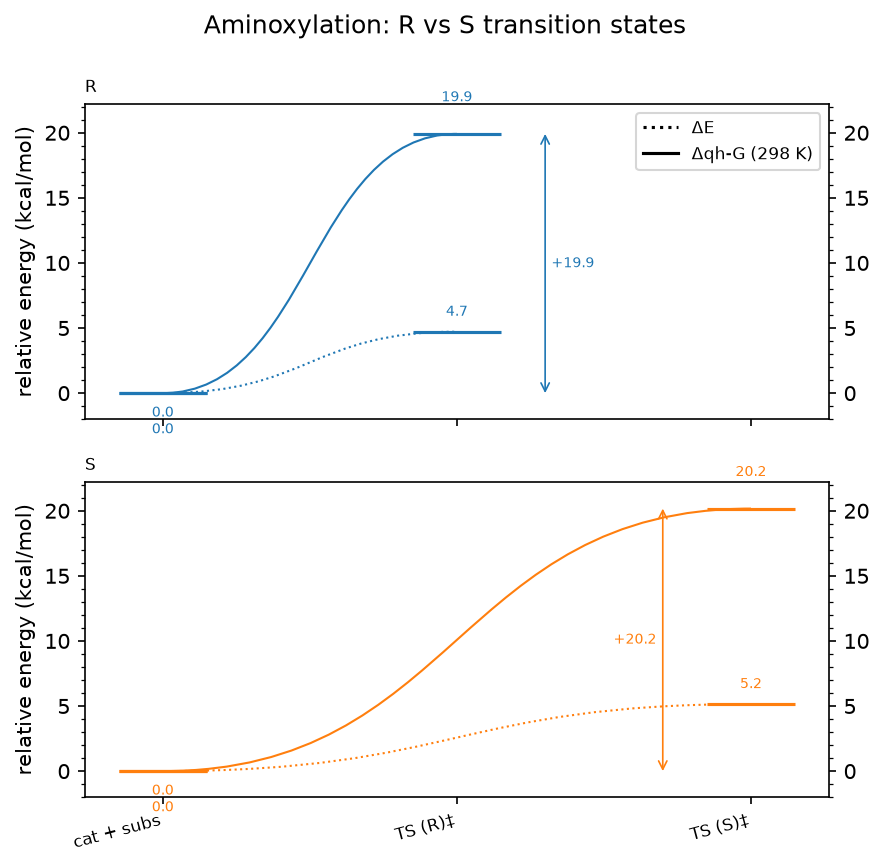
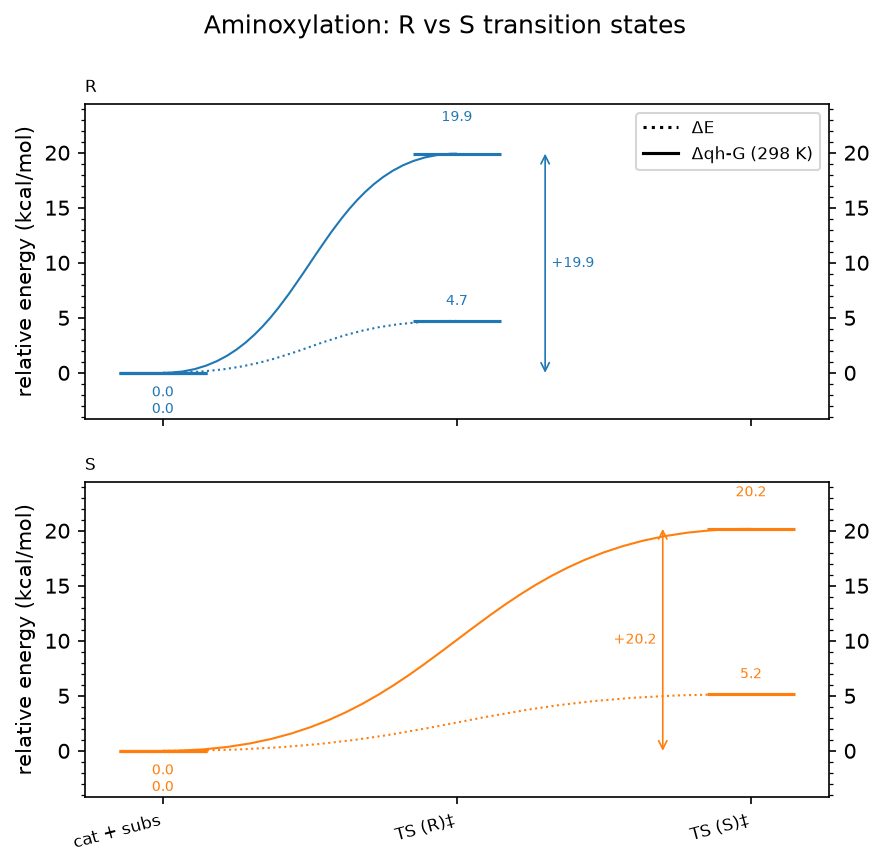
Image baselines for the gallery; a preset and uncertainty figure
tests/test_gallery_images.py renders every gallery figure at a fixed
size with its text hidden and compares it with a committed PNG in
tests/baselines/gallery (RMS tolerance 1.5). Text is left out because
glyph rasterisation varies between matplotlib/FreeType releases; the
geometry does not (matplotlib 3.9, 3.10 and 3.11 render the baselines
identically). Regenerate with GOODVIBES_UPDATE_BASELINES=1.

The gallery gains column_preset_uncertainty: minimal.yaml with
illustrative uncertainties at the single-column preset.

Tick labels now tilt from 15 to 40 degrees only when slanted neighbours
would actually overlap (baseline gap d*sin(a) below the text height),
not when their bounding boxes do. The committed gallery images are
redrawn (the value-label margin changed slightly).

diff --git a/tests/test_gallery_images.py b/tests/test_gallery_images.py
@@ -1,0 +1,109 @@
+"""Image baselines for the reaction-profile gallery: a layout or drawing
+regression (a lost series, a moved bar, a wrong connector, a figure that
+changes size) fails here, not in review.
+
+Each gallery figure is rendered at a fixed size with its text hidden and
+compared with a committed PNG in ``tests/baselines/gallery`` (RMS
+tolerance ``TOLERANCE`` on a 0-255 scale). Text is left out because glyph
+rasterisation changes between matplotlib and FreeType releases while the
+geometry does not; the numbers the text shows are checked in
+``test_gallery.py``. Measured when the baselines were made: matplotlib
+3.9, 3.10 and 3.11 render them identically (RMS 0, at most 0.67 for the
+panels figure); five missing connectors give 3.6, missing error bars
+4.1, a lost series 13.
+
+Regenerate after an intended change, and look at the images first:
+
+    GOODVIBES_UPDATE_BASELINES=1 pytest tests/test_gallery_images.py
+"""
+import importlib.util
+import os
+import shutil
+from pathlib import Path
+
+import pytest
+
+pytest.importorskip("yaml")
+matplotlib = pytest.importorskip("matplotlib")
+matplotlib.use("Agg", force=True)
+import matplotlib.pyplot as plt  # noqa: E402
+from matplotlib.testing.compare import compare_images  # noqa: E402
+
+ROOT = Path(__file__).resolve().parents[1]
+SCRIPT = ROOT / "goodvibes" / "examples" / "gallery" / "build_gallery.py"
+BASELINES = ROOT / "tests" / "baselines" / "gallery"
+DPI = 50
+TOLERANCE = 1.5
+UPDATE = bool(os.environ.get("GOODVIBES_UPDATE_BASELINES"))
+
+
+def _gallery():
+    spec = importlib.util.spec_from_file_location("build_gallery", SCRIPT)
+    mod = importlib.util.module_from_spec(spec)
+    spec.loader.exec_module(mod)
+    return mod.GALLERY
+
+
+GALLERY = _gallery()
+
+
+def render_geometry(prof, path) -> None:
+    """Save ``prof`` without text: titles, axis and tick labels, value
+    labels and the legend are hidden; bars, connectors, markers, error
+    bars, conformer dots, barrier arrows and the axes frame stay. No
+    ``bbox_inches='tight'``, so the image size is the figure size."""
+    fig = prof.figure
+    for ax in prof.axes:
+        ax.tick_params(which="both", labelleft=False, labelright=False, labelbottom=False)
+        ax.title.set_visible(False)
+        ax.xaxis.label.set_visible(False)
+        ax.yaxis.label.set_visible(False)
+        for t in ax.texts:
+            if t.get_text():                     # value / barrier labels; keep the bare arrows
+                t.set_visible(False)
+        if ax.get_legend() is not None:
+            ax.get_legend().set_visible(False)
+    for t in fig.texts:
+        t.set_visible(False)
+    with plt.rc_context(prof.rc):
+        fig.savefig(path, dpi=DPI)
+
+
+@pytest.mark.parametrize("name, make", GALLERY, ids=[name for name, _ in GALLERY])
+def test_gallery_figure_matches_its_baseline(name, make, tmp_path):
+    prof = make()
+    actual = tmp_path / f"{name}.png"
+    render_geometry(prof, actual)
+    prof.close()
+    expected = BASELINES / f"{name}.png"
+    if UPDATE:
+        BASELINES.mkdir(parents=True, exist_ok=True)
+        shutil.copyfile(actual, expected)
+        pytest.skip(f"baseline written: {expected.relative_to(ROOT)}")
+    assert expected.is_file(), (f"no baseline for {name}; create it with "
+                                "GOODVIBES_UPDATE_BASELINES=1 pytest tests/test_gallery_images.py")
+    diff = compare_images(str(expected), str(actual), tol=TOLERANCE, in_decorator=True)
+    assert diff is None, (f"{name} differs from its baseline (RMS {diff['rms']:.2f} > {TOLERANCE}); "
+                          f"diff image: {diff['diff']}")
+
+
+def test_every_baseline_belongs_to_a_gallery_figure():
+    names = {name for name, _ in GALLERY}
+    stale = sorted(p.stem for p in BASELINES.glob("*.png") if p.stem not in names)
+    assert not stale, f"baselines without a gallery figure: {stale}"
+
+
+def test_a_changed_figure_fails(tmp_path):
+    """The comparison is sensitive enough to catch a lost series."""
+    name, make = next((n, m) for n, m in GALLERY if n == "column_preset_uncertainty")
+    prof = make()
+    for coll in prof.ax.collections:
+        if (coll.get_gid() or "").startswith("error"):
+            coll.set_visible(False)              # the error bars gone
+    actual = tmp_path / "changed.png"
+    render_geometry(prof, actual)
+    prof.close()
+    expected = BASELINES / f"{name}.png"
+    if not expected.is_file():
+        pytest.skip("no baseline yet")
+    assert compare_images(str(expected), str(actual), tol=TOLERANCE, in_decorator=True) is not None

diff --git a/goodvibes/plot.py b/goodvibes/plot.py
@@ -463,14 +463,36 @@ def _draw_connector(ax, x0, y0, x1, y1, *, style, color, linestyle, linewidth, z
                    linestyle=linestyle, zorder=zorder)[0]
 
 
-def _labels_collide(fig, texts) -> bool:
-    """Whether consecutive tick labels overlap (measured with the Agg renderer)."""
+def _tick_label_rotation(fig, axis, texts, angle: float = 15.0) -> float:
+    """The smallest of 15, 40 and 90 degrees at which slanted, right-aligned
+    tick labels one data unit apart do not overlap.
+
+    Parallel labels at angle a, d apart, run into each other when one is
+    long enough to reach its neighbour (width * cos a > d) and the gap
+    between their baselines (d * sin a) is less than the text height.
+    """
+    import math
     try:
         renderer = fig.canvas.get_renderer()
-        boxes = [t.get_window_extent(renderer) for t in texts if t.get_text()]
     except Exception:                                   # a canvas without a renderer
-        return False
-    return any(b.x1 > c.x0 + 1 for b, c in zip(boxes, boxes[1:]))
+        return angle
+    shown = [t for t in texts if t.get_text()]
+    if len(shown) < 2:
+        return angle
+    x0, x1 = axis.transData.transform([(0.0, 0.0), (1.0, 0.0)])[:, 0]
+    d = abs(x1 - x0)
+    widths = []
+    for t in shown:
+        rot = t.get_rotation()
+        t.set_rotation(0)
+        widths.append(t.get_window_extent(renderer).width)
+        t.set_rotation(rot)
+    height = 1.2 * max(t.get_size() for t in shown) * fig.dpi / 72.0
+    for a in (angle, 40.0):
+        r = math.radians(a)
+        if max(widths) * math.cos(r) <= d or d * math.sin(r) >= height:
+            return a
+    return 90.0
 
 
 def _label_margin(fig, axis, stack_pts: float, minimum: float = 0.1) -> float:
@@ -756,9 +778,10 @@ def plot_profile(
             axis.set_xticks(list(range(n_points)))
             ticklabels = axis.set_xticklabels([display.get(lab, lab) for lab in order],
                                               rotation=15, ha="right", fontsize=tick_size)
-            if _labels_collide(fig, ticklabels):
+            rotation = _tick_label_rotation(fig, axis, ticklabels)
+            if rotation != 15:
                 for t in ticklabels:
-                    t.set_rotation(40)
+                    t.set_rotation(rotation)
             if pre:
                 axis.tick_params(axis="y", labelsize=tick_size)
             axis.set_ylabel(ylabel)

diff --git a/goodvibes/examples/gallery/build_gallery.py b/goodvibes/examples/gallery/build_gallery.py
@@ -25,6 +25,7 @@ ROOT = os.path.dirname(os.path.dirname(EXAMPLES))
 AZABOR = os.path.join(EXAMPLES, "profiles", "azabor_profile.json")
 AMINOX = os.path.join(HERE, "aminox_profile.json")
 LEVELS_CSV = os.path.join(EXAMPLES, "profiles", "levels.csv")
+MINIMAL = os.path.join(EXAMPLES, "profiles", "minimal.yaml")
 DEFAULT_OUT = os.path.join(ROOT, "docs", "source", "gallery")
 SINGLE = (6.4, 4.0)
 DPI = 150
@@ -94,6 +95,16 @@ def dft_vs_declared():
     return prof.plot(title="Computed (DFT) and declared values on one pathway")
 
 
+def column_preset_uncertainty():
+    """A declared profile with ± uncertainties at the single-column preset
+    (values and uncertainties illustrative, from ../profiles/minimal.yaml)."""
+    prof = load_profile(MINIMAL)
+    prof.title = "Illustrative values ± uncertainty"
+    prof.series[0].uncertainty = {"main": {"TS1": 1.5, "Int": 0.8, "TS2": 1.2, "P": 1.0}}
+    prof.style["preset"] = "single-column"
+    return prof.plot(label_points=True)
+
+
 GALLERY = [
     ("azabor_dft", azabor_dft),
     ("azabor_temperatures", azabor_temperatures),
@@ -101,6 +112,7 @@ GALLERY = [
     ("aminox_branches", aminox_branches),
     ("declared_csv", declared_csv),
     ("dft_vs_declared", dft_vs_declared),
+    ("column_preset_uncertainty", column_preset_uncertainty),
 ]
 
 
